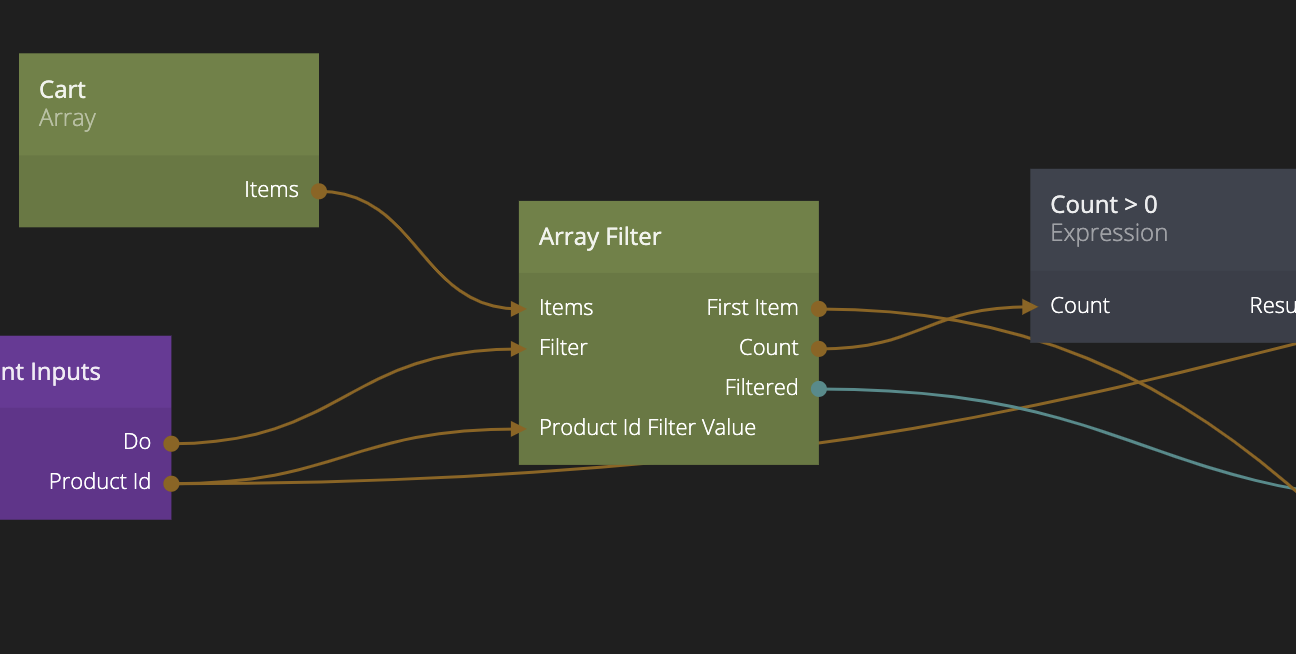
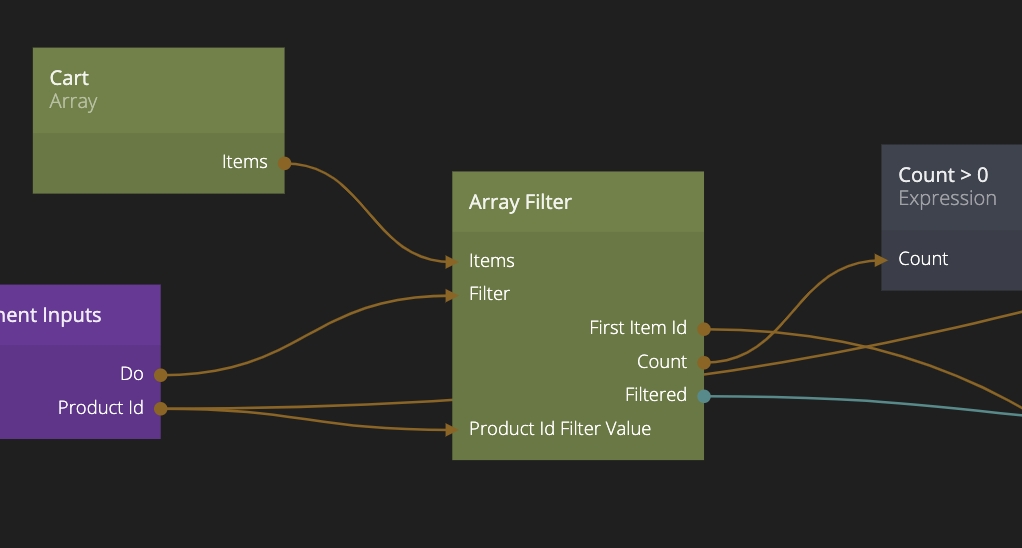
Updated array filter docs

Changed region(s): [[0.0, 0.2482, 1.0, 0.8376], [0.0, 0.062, 0.364, 0.4033]]

diff --git a/nodes/data/array-filter.md b/nodes/data/array-filter.md
@@ -66,9 +66,6 @@ The filtered and sorted array.
 **Count**  
 The number of objects in the filtered array.
 
-**First Item**  
-The first object in the filtered array, or *undefined* if there are no items in the filtered array.
-
 **First Item Id**  
 The *Id* of the first object in the filtered array, or *undefined* if there are no items in the filtered array.
 
